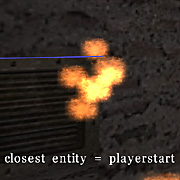
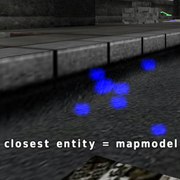
updates, thanks for the fish cleaner/robtics
git-svn-id: svn://svn.code.sf.net/p/actiongame/code/ac_website@6587 e016b1c5-ed68-44aa-a2f7-31cac88cffde

diff --git a/htdocs/docs/mapediting1.html b/htdocs/docs/mapediting1.html
@@ -16,6 +16,7 @@
     <style type="text/css">
       table, tr, td {
         text-align : left;
+        vertical-align : middle;
       }
     </style>
   </head>
@@ -83,8 +84,27 @@
               <b>Entity sparkles</b><br>
               <p>
                 These are shown as coloured sparkly dots. They are known as "entities", which will be explained later 
-                <a href="mapediting3.html">here</a>. Note: The sparkly of the nearest entity will show up blue.
-              </p>                        
+                <a href="mapediting3.html">here</a>. Each entity is colour coded:
+              </p>
+              <ul>
+                <li>The nearest entity will be blue.</li>
+                <li><a href="mapediting3.html#light">Light entities</a> will be white.</li>
+                <li>
+                  <a href="mapediting3.html#pickup">Item pickups</a> will be red
+                  (for weapons) or yellow (for armour/health).
+                </li>
+                <li><a href="mapediting3.html#spawn">Spawn points</a> will be green.</li>
+                <li>
+                  <a href="mapediting3.html#models">Mapmodels</a> and 
+                  <a href="mapediting3.html#sounds">map sounds</a> will be magenta.
+                </li>
+                <li><a href="mapediting3.html#ctf">CTF flags</a> will be turquoise.</li>
+                <li>
+                  <a href="mapediting3.html#clips">Clip boxes</a> and 
+                  <a href="mapediting3.html#ladders">ladders</a> will be grey.
+                </li>
+                <li><a href="mapediting3.html#sounds">Map sounds</a> in magenta (like models)</li>
+              </ul>
             </td>
           </tr>
           <tr>
@@ -92,8 +112,8 @@
             <td>
               <b>"Nearest entity" text</b><br>
               <p>
-                This is the white writing along the bottom. It will tell you the location of the closest entity and its properties.<br>
-                <b>Note:</b> As mentioned above, the nearest entity sparkly will show up blue.
+                This is the white writing along the bottom. It will tell you the location of the closest entity and its properties.
+                <b>Note:</b> The sparkly of the nearest entity will show up blue.
               </p>                        
             </td>
           </tr>
@@ -116,6 +136,16 @@
                 These boxes will be shown where clip entities are used and depict the total size of the clip.
                 These clip boxes stop players passing through, however, still allow grenades to pass.
                 See the <a href="mapediting3.html#clips">clips section</a> on the entities page for more information.
+              </p>
+            </td>
+          </tr>
+          <tr>
+            <td><img src="images/editmode-arrow.jpg" alt="Playerstart arrows"></td>
+            <td>
+              <b>Playerstart arrows</b><br>
+              <p>
+                These arrows show up for any entity that is a "playerstart". This is to help you judge the correct
+                direction for each player to face when they spawn.
               </p>
             </td>
           </tr>

diff --git a/htdocs/docs/mapediting3.html b/htdocs/docs/mapediting3.html
@@ -45,20 +45,28 @@
 
             <p>
                 <a href="mapediting1.html#sparkles" shape="rect">Entities</a> are shown as colour-coded
-                sparkly dots when in edit mode (the nearest one will show blue). They are used for adding non-geometry/texture items,
+                sparkly dots when in edit mode. They are used for adding non-geometry/non-texture items,
                 such as:
             </p>
-			<!-- see entities.cpp: ~ line 173: void renderentities(): for colours, more accurately renderparticles.cpp: ~ line 251: static struct parttype -->
-            <ul>
-                <li><a href="#light" shape="rect">Lights</a> in white</li>
-                <li><a href="#pickup" shape="rect">Item pickups</a> in red (weaponry) or yellow (armour/health)</li>
-                <li><a href="#spawn" shape="rect">Spawn points</a> in green</li>
-                <li><a href="#models" shape="rect">Mapmodels</a> in magenta (like sounds)</li>
-                <li><a href="#ctf" shape="rect">CTF flags</a> in turquoise</li>
-                <li><a href="#clips" shape="rect">Clips</a> in grey (like ladders)</li>
-                <li><a href="#ladders" shape="rect">Ladders</a> in grey (like clips)</li>
-                <li><a href="#sounds" shape="rect">Map sounds</a> in magenta (like models)</li>
-            </ul>
+              <ul>
+                <li>The nearest entity will be blue.</li>
+                <li><a href="mapediting3.html#light">Light entities</a> will be white.</li>
+                <li>
+                  <a href="mapediting3.html#pickup">Item pickups</a> will be red
+                  (for weapons) or yellow (for armour/health).
+                </li>
+                <li><a href="mapediting3.html#spawn">Spawn points</a> will be green.</li>
+                <li>
+                  <a href="mapediting3.html#models">Mapmodels</a> and 
+                  <a href="mapediting3.html#sounds">map sounds</a> will be magenta.
+                </li>
+                <li><a href="mapediting3.html#ctf">CTF flags</a> will be turquoise.</li>
+                <li>
+                  <a href="mapediting3.html#clips">Clip boxes</a> and 
+                  <a href="mapediting3.html#ladders">ladders</a> will be grey.
+                </li>
+                <li><a href="mapediting3.html#sounds">Map sounds</a> in magenta (like models)</li>
+              </ul>
             <p>
                 Each of these entities will be explained soon. All entities are added by the <b>/newent</b>
                 command (or through the editing menu). When adding entities, they are always added
